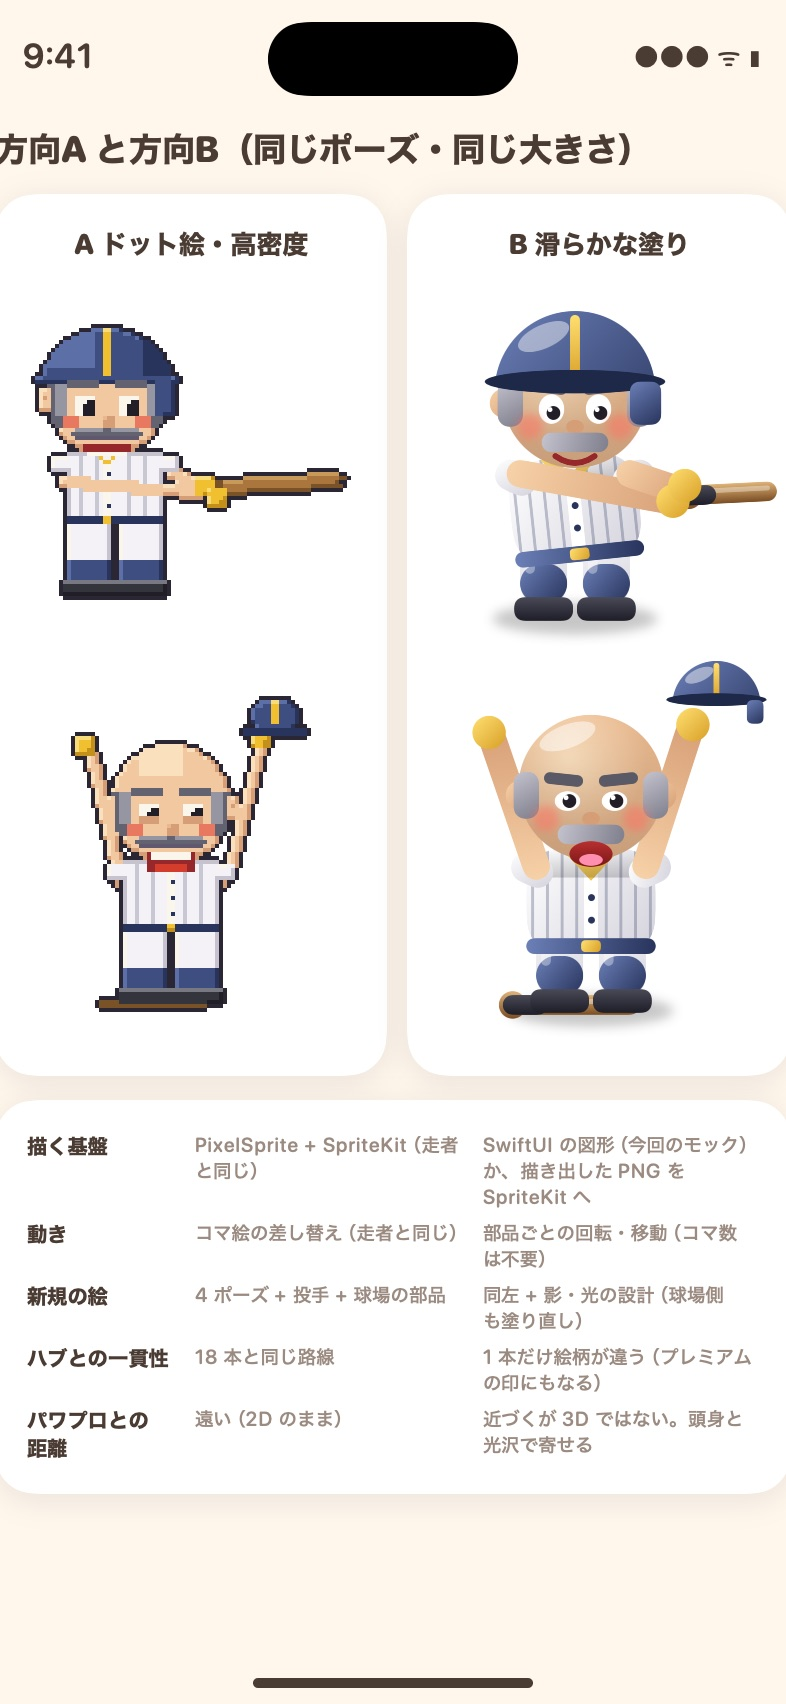
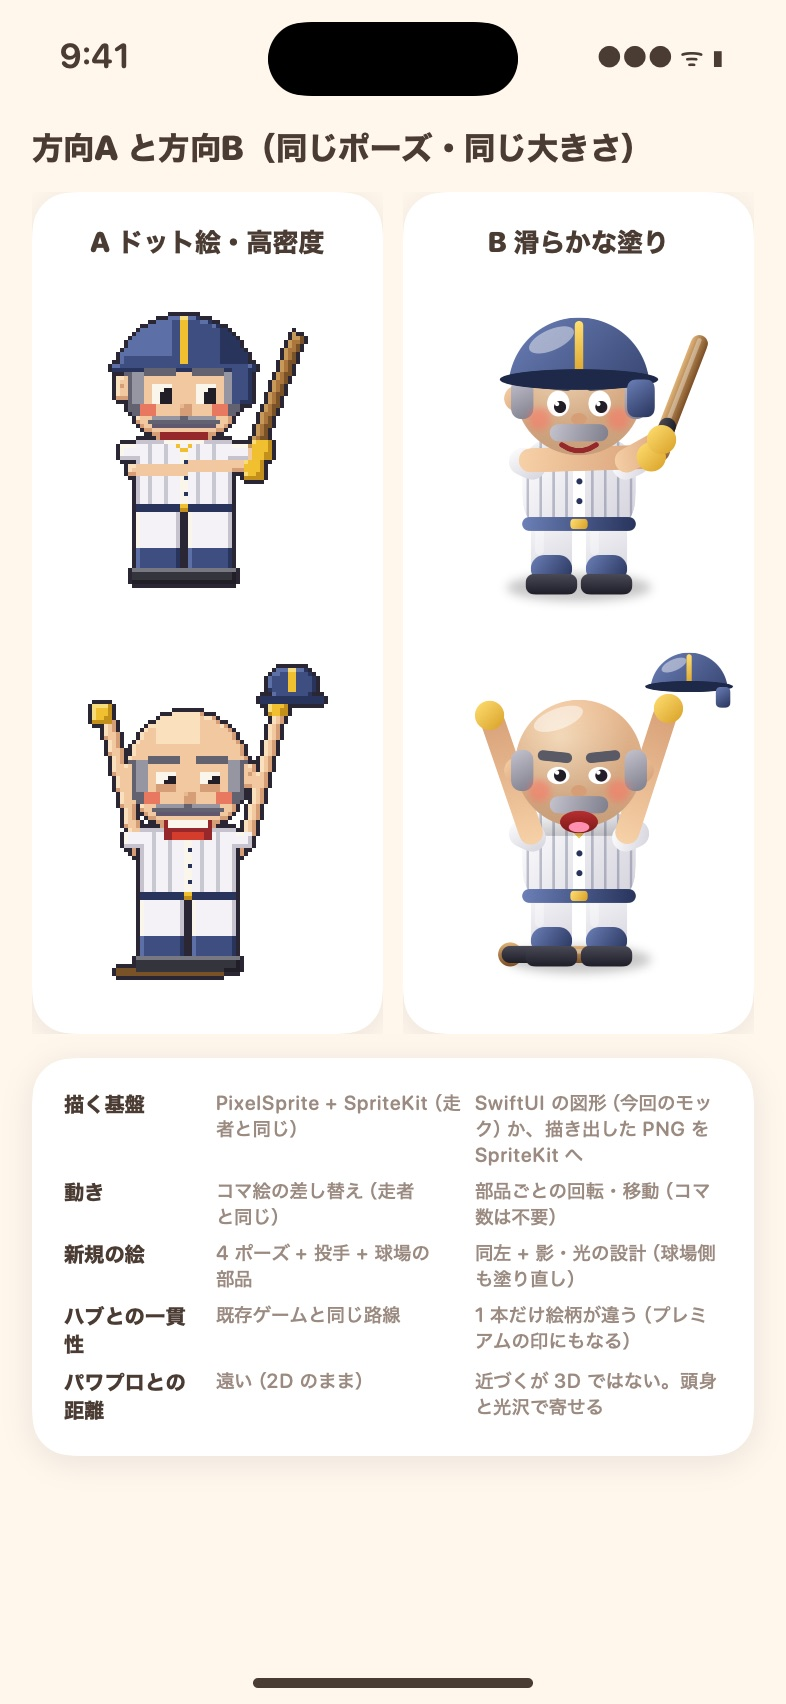
docs(design): verifier の指摘を反映（比較シートのはみ出し・README §0 の頭身保留・方向B のパンツ・06 の背景の数字・18 本と 2 倍の表記）（#1316）

diff --git a/docs/design/homerun/mock.swift b/docs/design/homerun/mock.swift
@@ -610,7 +610,7 @@ struct Challenges: View {
 // MARK: - 画面 1: 打席前（体験版）
 
 struct LobbyTrial: View {
-    let p = proportions[1]
+    var remaining = 2
     var body: some View {
         ZStack(alignment: .bottom) {
             T.bg.ignoresSafeArea()
@@ -630,8 +630,8 @@ struct LobbyTrial: View {
                     }
                     Card {
                         VStack(alignment: .leading, spacing: 10) {
-                            HStack { Text("今日の挑戦").font(T.f(15)).foregroundStyle(T.ink); Spacer(); Text("残り 2 / 3").font(T.f(15, .heavy)).foregroundStyle(T.coral) }
-                            Challenges(remaining: 2, total: 3)
+                            HStack { Text("今日の挑戦").font(T.f(15)).foregroundStyle(T.ink); Spacer(); Text("残り \(remaining) / 3").font(T.f(15, .heavy)).foregroundStyle(T.coral) }
+                            Challenges(remaining: remaining, total: 3)
                             Text("0:00 に 3 回に戻ります").font(T.f(12, .medium)).foregroundStyle(T.inkSub)
                             HStack(spacing: 8) {
                                 smallButton("広告を見て +1", sub: "1 本 30 秒・きょう あと 5 本", icon: "play.rectangle.fill", fill: T.fillCoral)
@@ -906,7 +906,7 @@ struct Recover: View {
     let p = proportions[1]
     var body: some View {
         ZStack(alignment: .bottom) {
-            LobbyTrial()
+            LobbyTrial(remaining: 0)
             Color.black.opacity(0.4)
             VStack(spacing: 14) {
                 Capsule().fill(hexColor(0xD9CFC3)).frame(width: 36, height: 5).padding(.top, 8)
@@ -1113,12 +1113,12 @@ struct VecOjisan: View {
             // バット（構えは体の後ろ）
             if pose == .stance { batView(Pt(x: 146, y: 88), Pt(x: 170, y: 26)) }
             if pose == .cheer || pose == .frown { batView(Pt(x: 60, y: 165), Pt(x: 120, y: 165)) }
-            // 脚
+            // 脚（白パンツが胴の下に見えるよう、胴より 8pt 下まで出す）
             ForEach([84.0, 116.0], id: \.self) { x in
-                Capsule().fill(V.white).frame(width: 24, height: 48).position(x: x, y: 138)
-                Capsule().fill(V.navy).frame(width: 24, height: 20).position(x: x, y: 150)
-                RoundedRectangle(cornerRadius: 5).fill(V.dark).frame(width: 30, height: 12).position(x: x, y: 163)
-                Capsule().fill(.white.opacity(0.35)).frame(width: 5, height: 26).position(x: x - 7, y: 132)
+                Capsule().fill(V.white).frame(width: 24, height: 50).position(x: x, y: 142)
+                Capsule().fill(V.navy).frame(width: 24, height: 16).position(x: x, y: 157)
+                RoundedRectangle(cornerRadius: 5).fill(V.dark).frame(width: 30, height: 12).position(x: x, y: 166)
+                Capsule().fill(.white.opacity(0.35)).frame(width: 5, height: 22).position(x: x - 7, y: 138)
             }
             // 胴（ジャージ）
             ZStack {
@@ -1132,7 +1132,7 @@ struct VecOjisan: View {
             .frame(width: 66, height: 54).clipShape(RoundedRectangle(cornerRadius: 18))
             .overlay(alignment: .bottom) { Capsule().fill(V.navy).frame(width: 66, height: 8).overlay(RoundedRectangle(cornerRadius: 2).fill(V.yellow).frame(width: 10, height: 6)) }
             .rotationEffect(.degrees(pose == .swing ? -6 : 0))
-            .position(x: 100, y: 112)
+            .position(x: 100, y: 108)
             // 袖口（白）と腕・手袋・バット
             Capsule().fill(V.white).frame(width: 22, height: 16).rotationEffect(.degrees(24)).position(x: 70, y: 96)
             Capsule().fill(V.white).frame(width: 22, height: 16).rotationEffect(.degrees(-24)).position(x: 130, y: 96)
@@ -1381,14 +1381,14 @@ struct CharacterA: View {
             T.bg.ignoresSafeArea()
             VStack(alignment: .leading, spacing: 12) {
                 Text("方向A: ドット絵のまま密度を上げる").font(T.f(20, .heavy)).foregroundStyle(T.ink).padding(.top, 64)
-                Text("グリッドを 2 倍（頭 18 → 30 ドット）にし、縁の陰影と服の描き込み（ピンストライプ・前立て・ベルト・耳当て）を足した。色はチャリンコおじさんと同じパレット + 3 色。")
+                Text("グリッドを約 1.7 倍（頭 18 → 30 ドット）にし、縁の陰影と服の描き込み（ピンストライプ・前立て・ベルト・耳当て）を足した。色はチャリンコおじさんと同じパレット + 3 色。")
                     .font(T.f(11, .medium)).foregroundStyle(T.inkSub).fixedSize(horizontal: false, vertical: true).frame(maxWidth: .infinity, alignment: .leading)
                 Card {
                     VStack(alignment: .leading, spacing: 6) {
                         Text("ユニフォーム姿・4 ポーズ（2 倍）").font(T.f(15, .heavy)).foregroundStyle(T.ink)
                         LazyVGrid(columns: [GridItem(.flexible()), GridItem(.flexible())], alignment: .center, spacing: 6) {
                             ForEach([Pose.stance, .swing, .cheer, .frown], id: \.self) { pose in
-                                VStack(spacing: 2) { Px(canvas: ojisanHD(pose), scale: 2).frame(height: 166, alignment: .bottom); Text(label(pose)).font(T.f(10)).foregroundStyle(T.inkSub) }
+                                VStack(spacing: 2) { Px(canvas: ojisanHD(pose), scale: 2).frame(height: 158, alignment: .bottom); Text(label(pose)).font(T.f(10)).foregroundStyle(T.inkSub) }
                             }
                         }
                     }
@@ -1440,7 +1440,7 @@ struct CharacterB: View {
                     HStack(alignment: .center, spacing: 14) {
                         VStack(alignment: .leading, spacing: 4) {
                             Text("小さくしても崩れないのが利点").font(T.f(13, .heavy)).foregroundStyle(T.ink)
-                            Text("ベクターなので 44pt に縮めても線がにじまない。逆にドット絵路線の他の 18 本と並ぶハブでは浮く").font(T.f(10, .medium)).foregroundStyle(T.inkSub).fixedSize(horizontal: false, vertical: true)
+                            Text("ベクターなので 44pt に縮めても線がにじまない。逆にドット絵路線の既存ゲームと並ぶハブでは浮く").font(T.f(10, .medium)).foregroundStyle(T.inkSub).fixedSize(horizontal: false, vertical: true)
                         }
                         VecOjisan(pose: .stance).scaleEffect(0.4).frame(width: 80, height: 72)
                         ZStack { RoundedRectangle(cornerRadius: 12).fill(T.yellow).frame(width: 44, height: 44); VecOjisan(pose: .stance).scaleEffect(0.24).frame(width: 44, height: 44).clipShape(RoundedRectangle(cornerRadius: 12)) }
@@ -1457,29 +1457,29 @@ struct CompareAB: View {
         ZStack(alignment: .top) {
             T.bg.ignoresSafeArea()
             VStack(alignment: .leading, spacing: 12) {
-                Text("方向A と方向B（同じポーズ・同じ大きさ）").font(T.f(18, .heavy)).foregroundStyle(T.ink).padding(.top, 64).fixedSize(horizontal: false, vertical: true)
+                Text("方向A と方向B（同じポーズ・同じ大きさ）").font(T.f(17, .heavy)).foregroundStyle(T.ink).padding(.top, 64).fixedSize(horizontal: false, vertical: true).frame(maxWidth: .infinity, alignment: .leading)
                 HStack(alignment: .top, spacing: 10) {
                     Card {
                         VStack(spacing: 6) {
                             Text("A ドット絵・高密度").font(T.f(14, .heavy)).foregroundStyle(T.ink)
-                            Px(canvas: ojisanHD(.swing), scale: 2).frame(height: 190)
-                            Px(canvas: ojisanHD(.cheer), scale: 2).frame(height: 190)
+                            Px(canvas: ojisanHD(.stance), scale: 2).frame(width: 140, height: 180)
+                            Px(canvas: ojisanHD(.cheer), scale: 2).frame(width: 140, height: 180)
                         }.frame(maxWidth: .infinity)
-                    }
+                    }.clipped()
                     Card {
                         VStack(spacing: 6) {
                             Text("B 滑らかな塗り").font(T.f(14, .heavy)).foregroundStyle(T.ink)
-                            VecOjisan(pose: .swing).scaleEffect(0.98).frame(width: 160, height: 190).offset(x: -12)
-                            VecOjisan(pose: .cheer).scaleEffect(0.98).frame(width: 160, height: 190).offset(x: -4)
+                            VecOjisan(pose: .stance).scaleEffect(0.86).frame(width: 140, height: 180)
+                            VecOjisan(pose: .cheer).scaleEffect(0.86).frame(width: 140, height: 180)
                         }.frame(maxWidth: .infinity)
-                    }
+                    }.clipped()
                 }
                 Card {
                     VStack(alignment: .leading, spacing: 5) {
                         row("描く基盤", "PixelSprite + SpriteKit（走者と同じ）", "SwiftUI の図形（今回のモック）か、描き出した PNG を SpriteKit へ")
                         row("動き", "コマ絵の差し替え（走者と同じ）", "部品ごとの回転・移動（コマ数は不要）")
                         row("新規の絵", "4 ポーズ + 投手 + 球場の部品", "同左 + 影・光の設計（球場側も塗り直し）")
-                        row("ハブとの一貫性", "18 本と同じ路線", "1 本だけ絵柄が違う（プレミアムの印にもなる）")
+                        row("ハブとの一貫性", "既存ゲームと同じ路線", "1 本だけ絵柄が違う（プレミアムの印にもなる）")
                         row("パワプロとの距離", "遠い（2D のまま）", "近づくが 3D ではない。頭身と光沢で寄せる")
                     }
                 }
@@ -1488,7 +1488,7 @@ struct CompareAB: View {
     }
     func row(_ k: String, _ a: String, _ b: String) -> some View {
         HStack(alignment: .top, spacing: 6) {
-            Text(k).font(T.f(11, .heavy)).foregroundStyle(T.ink).frame(width: 78, alignment: .leading)
+            Text(k).font(T.f(11, .heavy)).foregroundStyle(T.ink).frame(width: 70, alignment: .leading).fixedSize(horizontal: false, vertical: true)
             Text(a).font(T.f(10, .medium)).foregroundStyle(T.inkSub).frame(maxWidth: .infinity, alignment: .leading).fixedSize(horizontal: false, vertical: true)
             Text(b).font(T.f(10, .medium)).foregroundStyle(T.inkSub).frame(maxWidth: .infinity, alignment: .leading).fixedSize(horizontal: false, vertical: true)
         }
